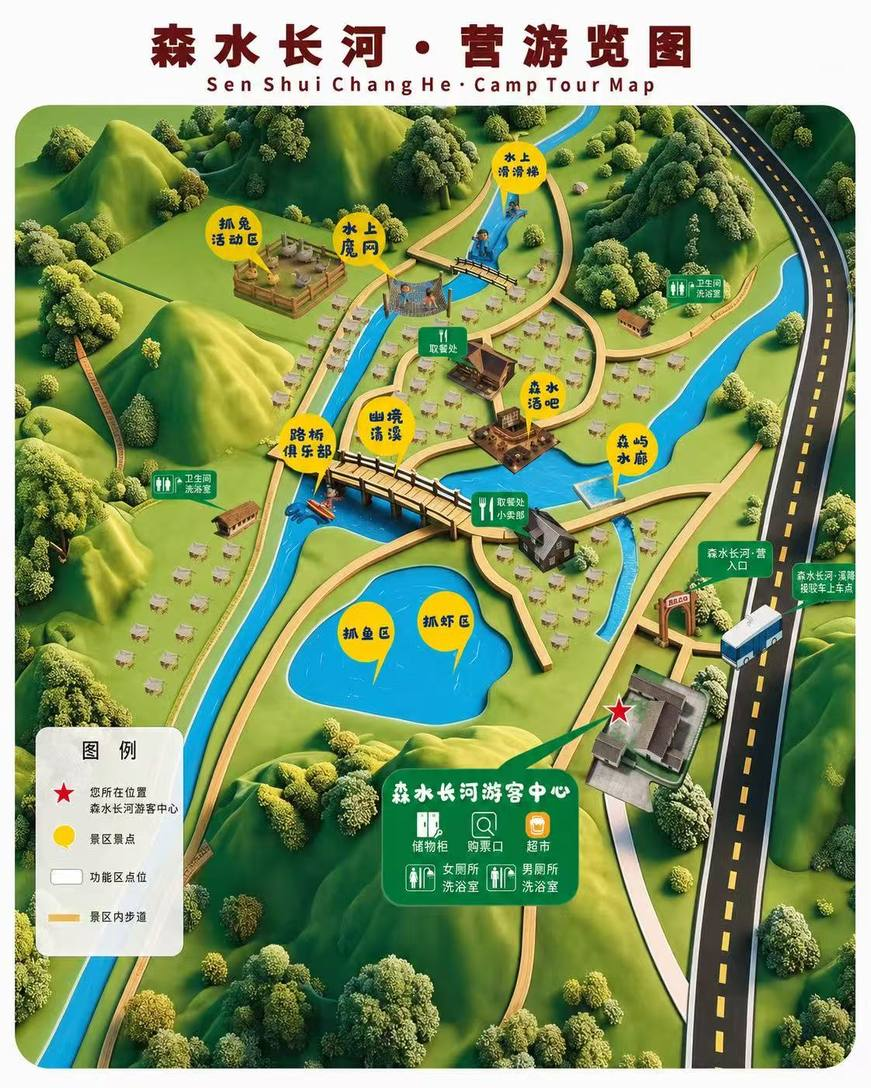
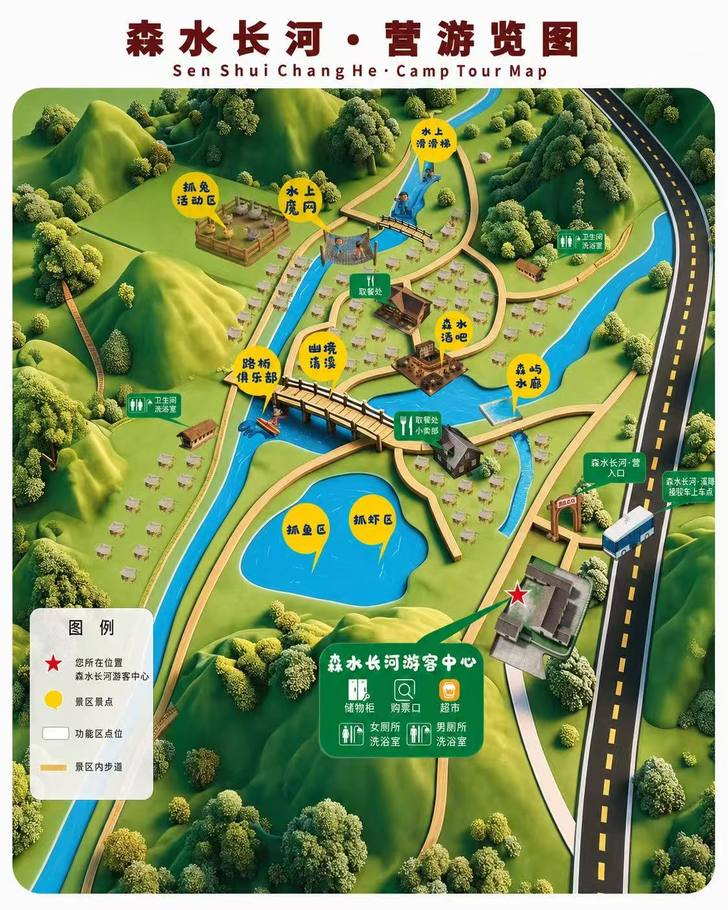
fix+feat(vibe-ui): 地图压至145K(破200K缓存边界) + 全屏地图改双指缩放查看器

diff --git a/miniprogram/pages/index/index.js b/miniprogram/pages/index/index.js
@@ -16,6 +16,8 @@ Page({
     campMapUrl: '', // 营地游览图云端临时链接（管理员上传后覆盖本地图）
     creekMapUrl: '', // 溪降游览图云端临时链接
     mapViewer: '', // 全屏查看的地图 src（空=关闭）
+    mapViewW: 0, // 查看器图片宽（px）
+    mapViewH: 0, // 查看器图片高（px，按原图比例）
     // 园区指南入口（会员卡在上方独立卡片，见 wxml）
     quickLinks: [
       { key: 'catalog', title: '商品与服务', desc: '酒水·小卖部·租赁', icon: '/assets/icons/forest/home-store.png' },
@@ -84,17 +86,26 @@ Page({
     wx.navigateTo({ url: '/pages/member/detail/detail' })
   },
 
-  // 打开全屏地图查看（云端图优先，否则用本地打包图）
+  // 打开全屏地图查看（云端图优先，否则用本地打包图）；支持双指缩放
   openMap(e) {
     const key = e.currentTarget.dataset.key
     const src = key === 'creek'
       ? (this.data.creekMapUrl || '/images/map-creek.jpg')
       : (this.data.campMapUrl || '/images/map-camp.jpg')
-    this.setData({ mapViewer: src })
+    haptic('light')
+    const winW = (wx.getWindowInfo && wx.getWindowInfo().windowWidth) || 375
+    wx.getImageInfo({
+      src,
+      success: (info) => {
+        const h = Math.round(winW * info.height / info.width)
+        this.setData({ mapViewer: src, mapViewW: winW, mapViewH: h })
+      },
+      fail: () => this.setData({ mapViewer: src, mapViewW: winW, mapViewH: winW })
+    })
   },
 
   closeMapViewer() {
-    this.setData({ mapViewer: '' })
+    this.setData({ mapViewer: '', mapViewW: 0, mapViewH: 0 })
   },
 
   onShareAppMessage() {
